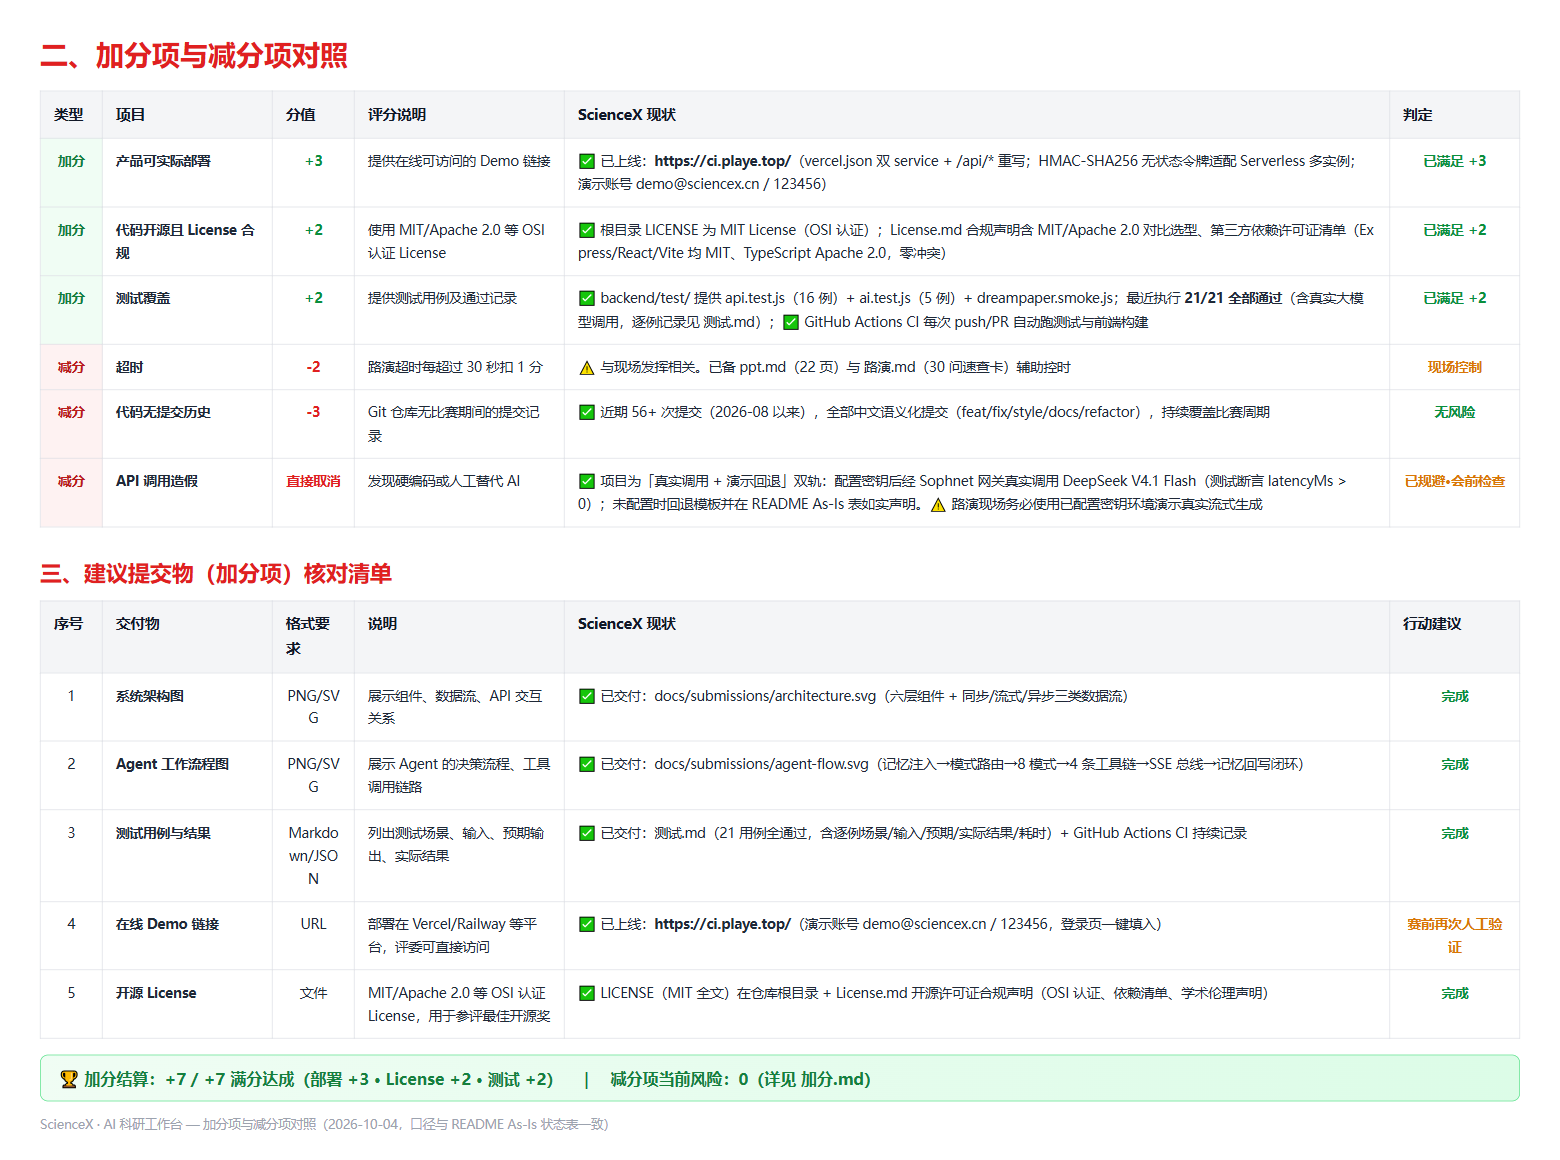
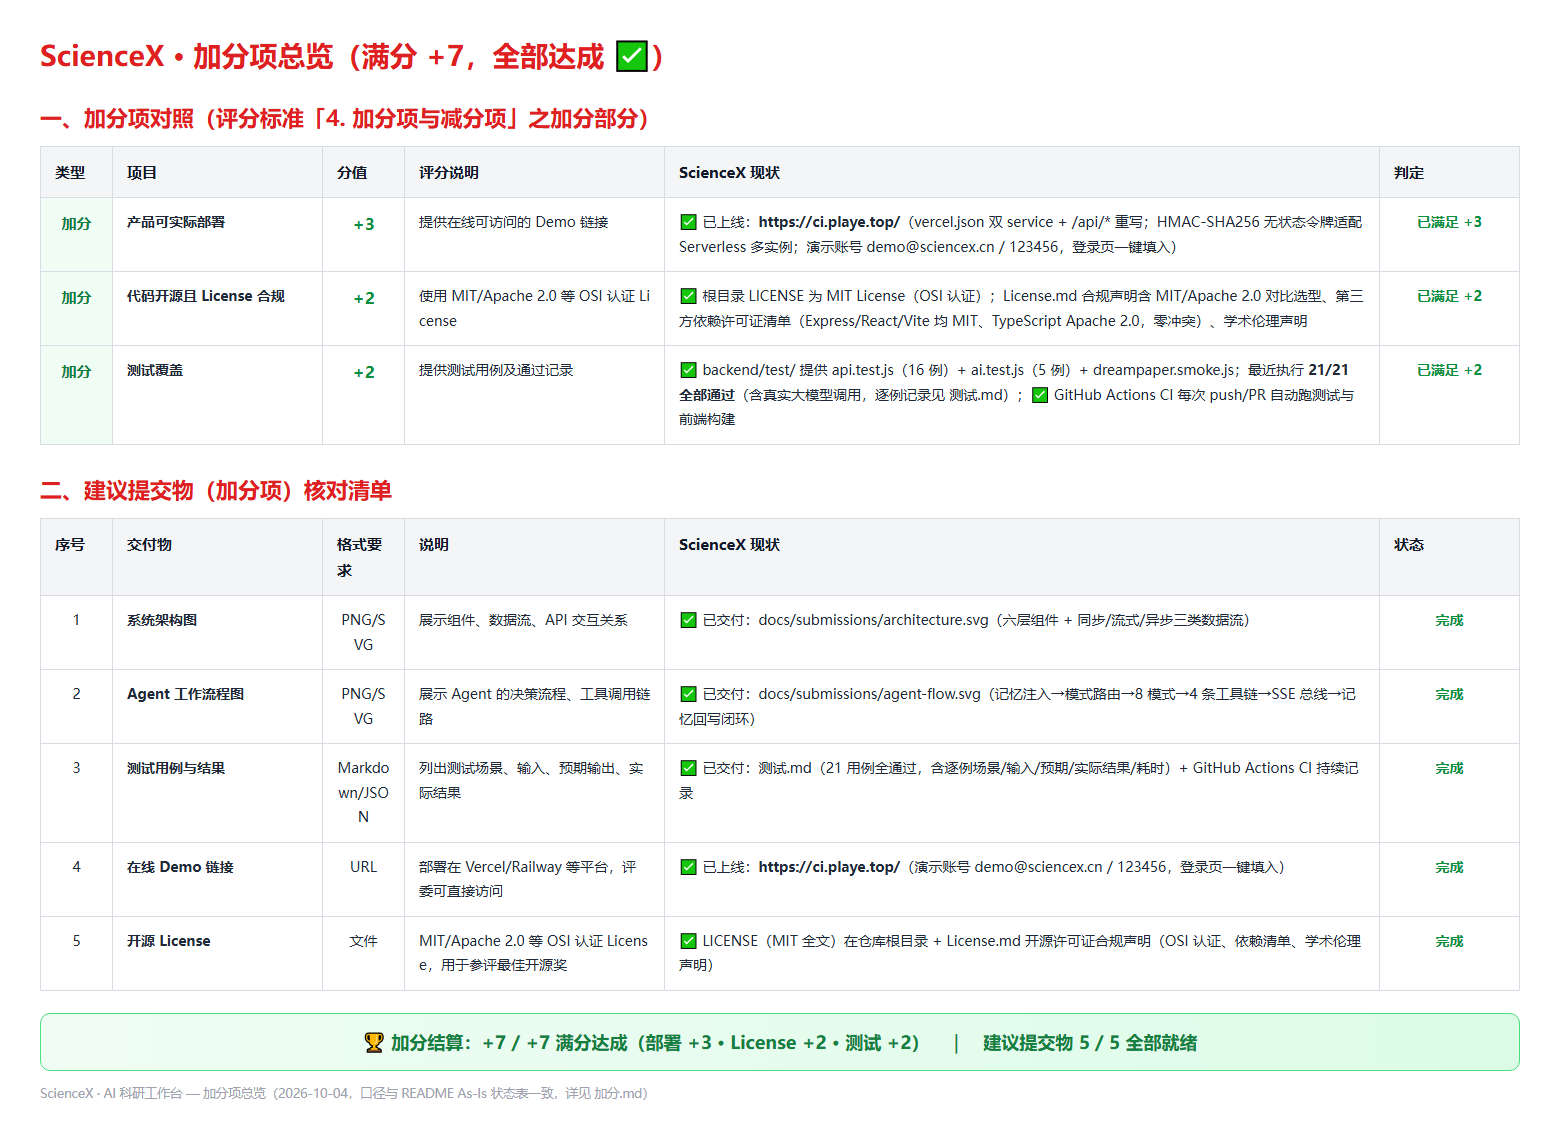
docs: 加分项核对表图重做为仅加分项版（合并加分项对照+建议提交物清单，去除减分项）

diff --git a/评分.md b/评分.md
@@ -21,7 +21,7 @@
 
 ## 二、加分项与减分项对照
 
-![加分项与减分项对照表](docs/submissions/加分项核对表.png)
+![加分项总览图（加分项 + 建议提交物核对清单，不含减分项）](docs/submissions/加分项核对表.png)
 
 | 类型 | 项目 | 分值 | 评分说明 | ScienceX 现状 | 判定 |
 | :--- | :--- | :---: | :--- | :--- | :---: |
